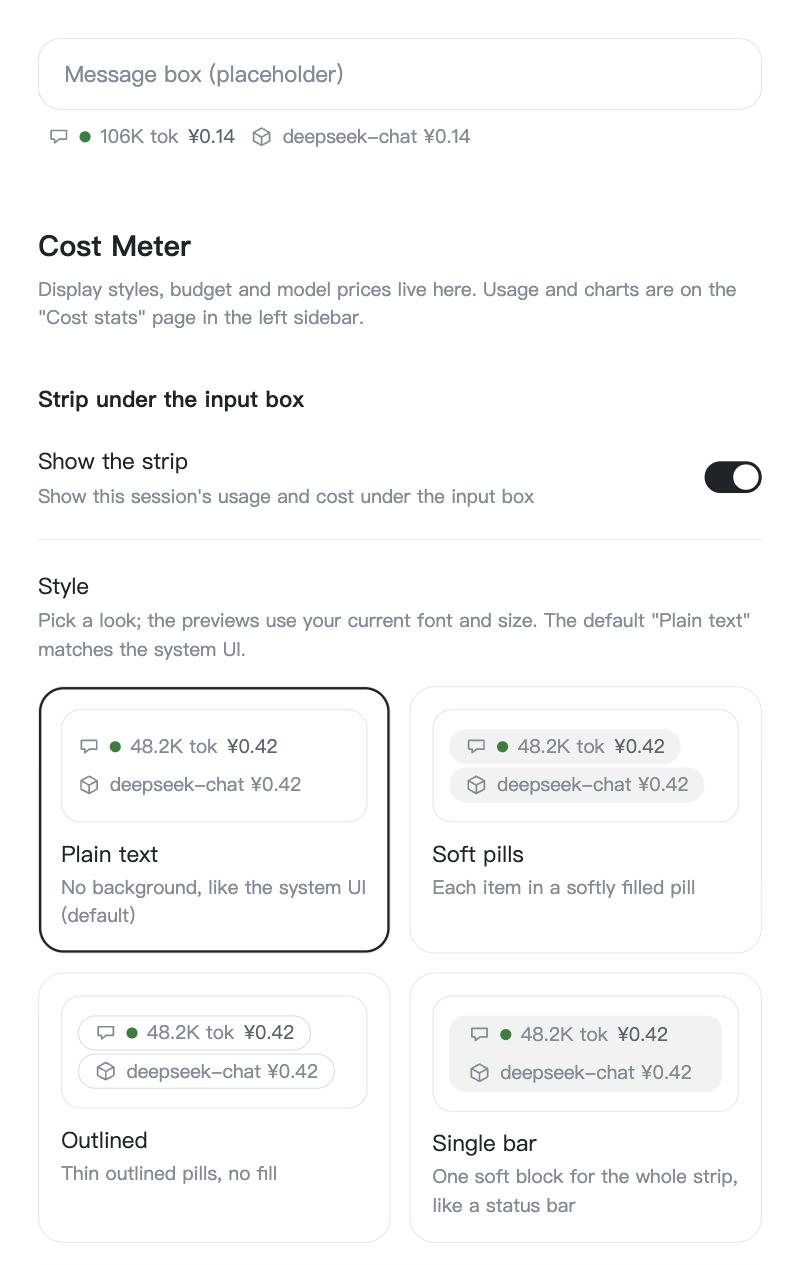
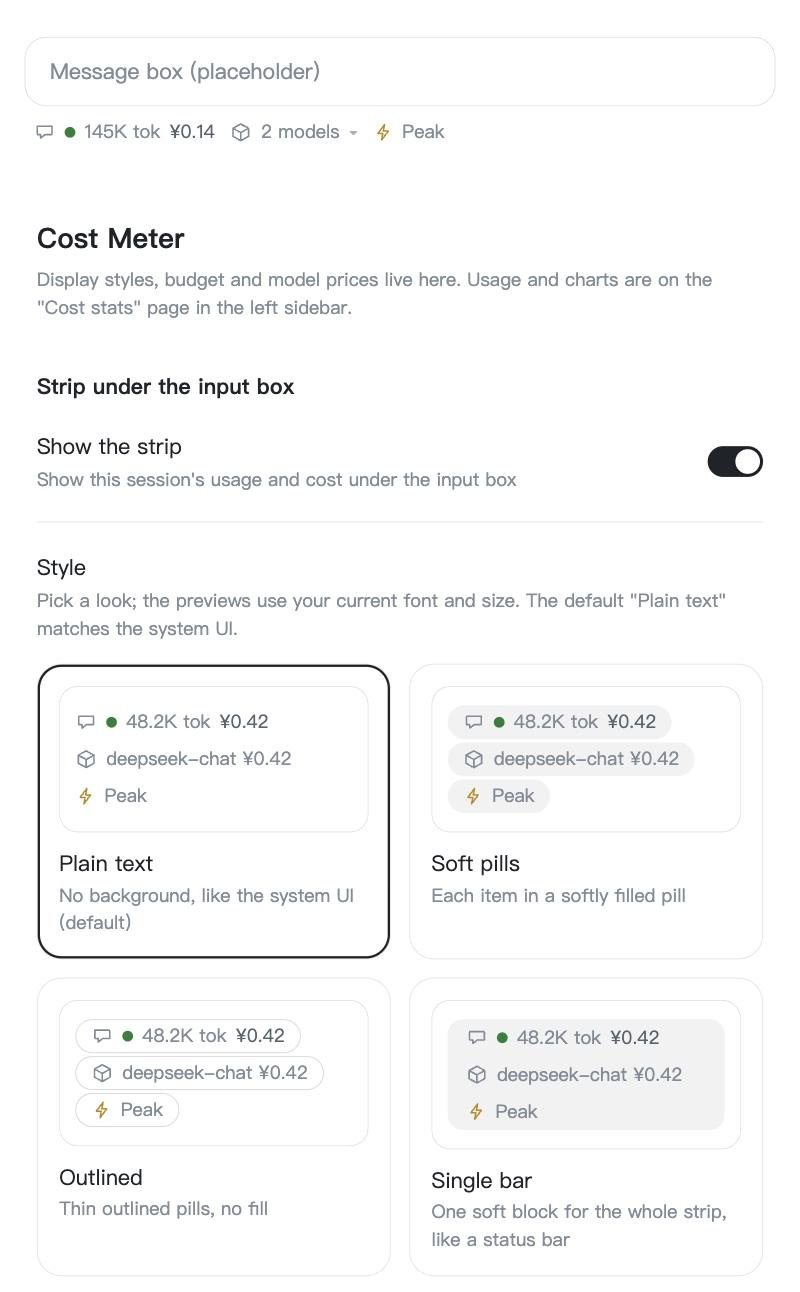
Retake the README screenshots for the new features
The right-sidebar tab now shows the peak status and account balances, and the
settings previews include the peak badge. New: the account balances and price
catalog sections of the settings page, and the first-start question about
importing past conversations (with the hint in the strip). All are rendered
from sample data in a test page; the statistics page screenshot is unchanged.

diff --git a/HANDOFF.md b/HANDOFF.md
@@ -56,7 +56,7 @@
 - 会话分析不显示会话标题（已用 `app.asar` 核实）：`ctx.sessionTitle` 只有 `register()` / `refresh()`，没有读取接口，`llm/stream` 也没有标题字段；目前用「`#` + 会话 id 末 6 位 + 主要模型」区分。若以后宿主给了读取接口，改 `94-stats-sessions.js` 的会话名函数和 Host 即可。
 - 云端语音识别没有可观察的事件，无法计量；本地 TTS（sherpa-onnx）/ STT（SenseVoice）免费，也不计。图片 / 语音模板价（2026-10-26 核对）：OpenAI tts-1 $15 / 百万字符、tts-1-hd $30、whisper-1 与 gpt-4o-transcribe $0.006 / 分钟、mini $0.003；阿里云百炼 qwen-image / wan 系列按张。
 - 预置只含有官方依据的分档：Claude Haiku 5.5（>100K）、gpt-6.1-terra（>272K）、glm-5.1（>32K，该档缓存读价没有记录，沿用基础价，数值沿用旧注释、本次未重新抓取官方页）。其他 OpenAI 模型的 >272K 档尚未核实。
-- 发布后注意：GitHub 仓库已公开，npm 页面上 README 的相对路径图片（`icon.svg`、`docs/images/*`）和 `repository` 链接要等下次 `npm publish` 之后才会更新；README 里的截图是 2026-10-26 拍的，还没有峰谷、价格目录、历史导入、余额这几块新界面。
+- 发布后注意：GitHub 仓库已公开，npm 页面上 README 的相对路径图片（`icon.svg`、`docs/images/*`）和 `repository` 链接要等下次 `npm publish` 之后才会更新；README 里的截图 2026-10-27 重拍过（侧栏、设置页、余额、价格目录、历史导入询问；统计页那张仍是 10-26 的，该页没改）：用本地浏览器测试页（在会话临时目录里，未入库）渲染，视口 520×840 / 360×830，`now=2026-10-27T02:30:00Z` 冻结在高峰时段，演示数据，不是真实账号。
 - 分档是「整次请求」计价，不支持阶梯累进；货币只在显示时折算（固定汇率）；无价格表导入 / 导出。
 - 模板价：gpt-image-2 各档与 2.5-sunburst / flare 是按 token 价估算的每张价（标 `est.`），2.5 两个来自页面摘要，gemini-2.5-flash-image 已标注 2026-10-02 停用；USD/CNY 默认 6.8 只是约数。
 - 历史导入只认日志 v4；导入的调用没有耗时；费用按当前单价估算；失败的 / 标题 / 联网搜索调用不在日志里；分叉会话继承来的前缀会跳过；旧版本已裁剪过会话状态时，插件从没见过的会话要先「清空累计」才能导入。

diff --git a/README.md b/README.md
@@ -108,7 +108,16 @@ Rendered from sample data in a test page. Colors and fonts in the real client fo
   </tr>
 </table>
 
-<p align="center"><img src="docs/images/settings.en.jpg" width="520" alt="Settings: strip styles with live previews" /><br /><sub>Settings: four strip styles with live previews, font and size</sub></p>
+<table>
+  <tr>
+    <td align="center" valign="top" width="50%"><img src="docs/images/settings.en.jpg" alt="Settings: strip styles with live previews" /><br /><sub>Settings: four strip styles with live previews (including the peak badge), font and size</sub></td>
+    <td align="center" valign="top" width="50%"><img src="docs/images/settings-balance.en.jpg" alt="Settings: account balances" /><br /><sub>Settings: account balances for the providers you add; keys stay on your machine</sub></td>
+  </tr>
+  <tr>
+    <td align="center" valign="top" width="50%"><img src="docs/images/settings-catalog.en.jpg" alt="Settings: OpenRouter price catalog" /><br /><sub>Settings: OpenRouter price catalog, filled on request or once a day if you switch it on</sub></td>
+    <td align="center" valign="top" width="50%"><img src="docs/images/import-prompt.en.jpg" alt="First-start question about importing past conversations" /><br /><sub>Past conversations found on first start: the import question, and a hint in the strip</sub></td>
+  </tr>
+</table>
 
 ## How costs are calculated
 

diff --git a/README.zh-CN.md b/README.zh-CN.md
@@ -108,7 +108,16 @@ dsh plugin --profile web add @norixor/dsh-cost-meter
   </tr>
 </table>
 
-<p align="center"><img src="docs/images/settings.zh-CN.jpg" width="520" alt="设置页：统计条样式与实时预览" /><br /><sub>设置页：四套统计条样式，带实时预览，可选字体与字号</sub></p>
+<table>
+  <tr>
+    <td align="center" valign="top" width="50%"><img src="docs/images/settings.zh-CN.jpg" alt="设置页：统计条样式与实时预览" /><br /><sub>设置页：四套统计条样式，带实时预览（含峰谷徽标），可选字体与字号</sub></td>
+    <td align="center" valign="top" width="50%"><img src="docs/images/settings-balance.zh-CN.jpg" alt="设置页：账户余额" /><br /><sub>设置页：添加你自己的服务商账号查看余额，密钥只存在本机</sub></td>
+  </tr>
+  <tr>
+    <td align="center" valign="top" width="50%"><img src="docs/images/settings-catalog.zh-CN.jpg" alt="设置页：OpenRouter 价格目录" /><br /><sub>设置页：OpenRouter 价格目录，按需更新，也可打开每天自动更新</sub></td>
+    <td align="center" valign="top" width="50%"><img src="docs/images/import-prompt.zh-CN.jpg" alt="首次启动时询问是否导入历史对话" /><br /><sub>首次启动发现历史对话：导入询问，统计条里也有提示</sub></td>
+  </tr>
+</table>
 
 ## 计费口径
 
